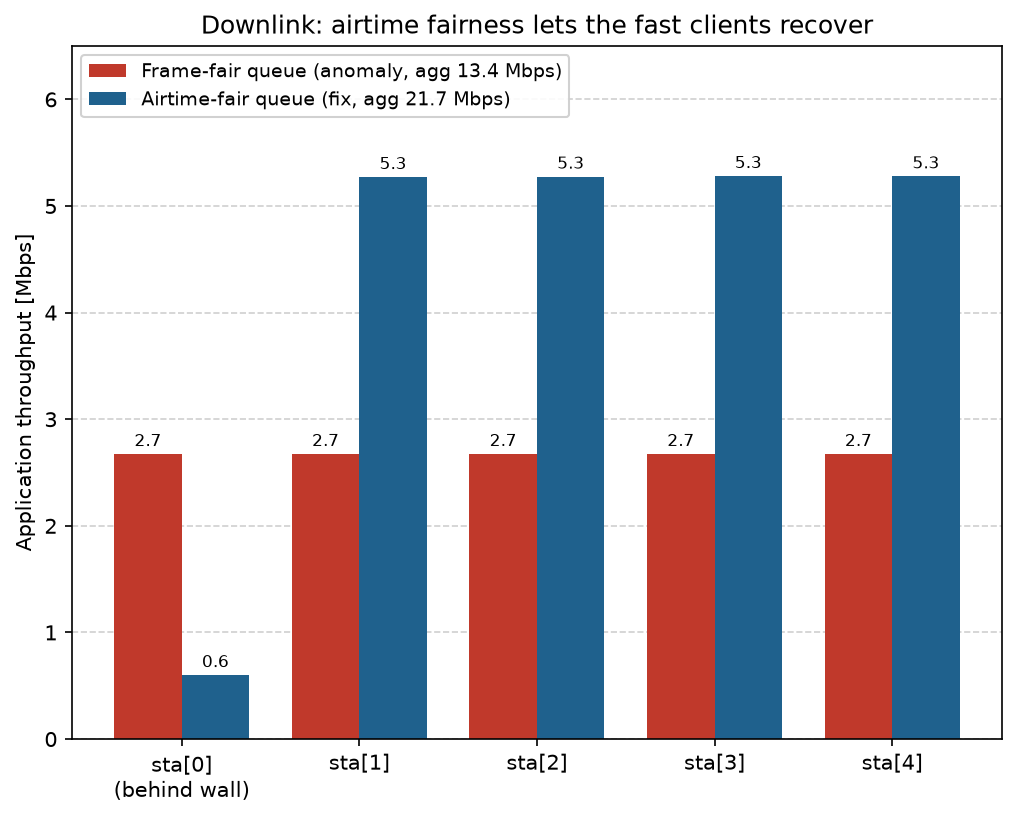
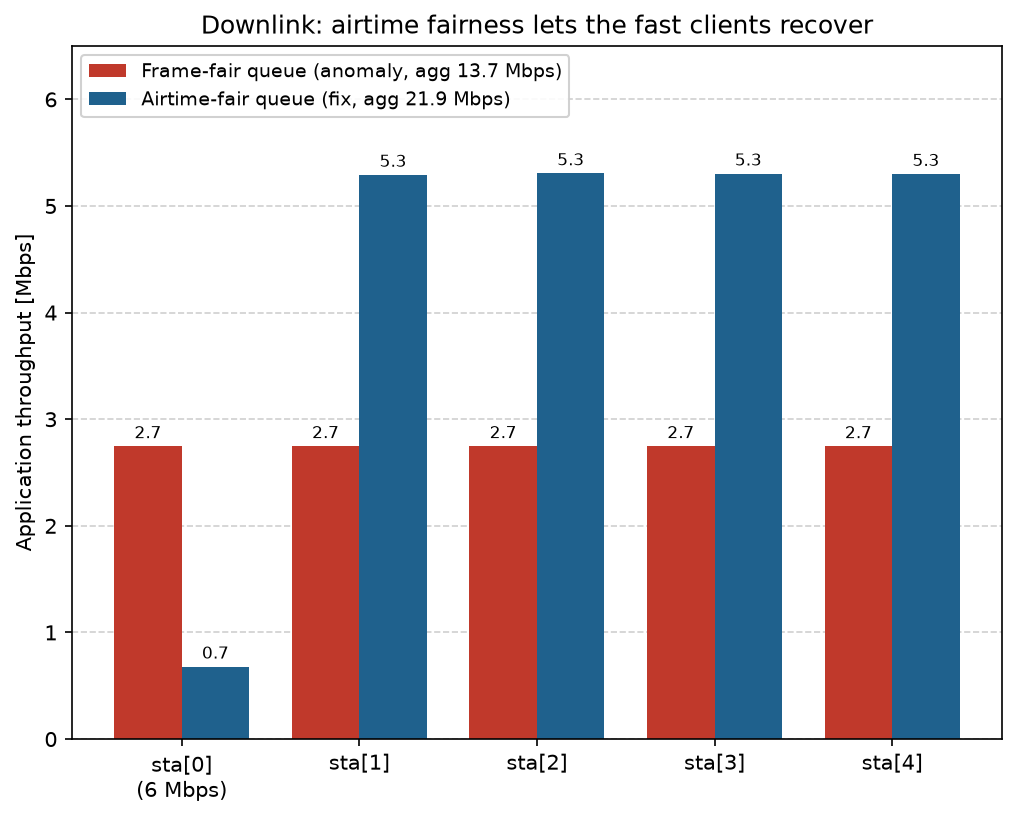
showcases/wireless/rateanomaly: pin the downlink slow rate instead of a wall
The downlink form used a wall in front of sta[0] plus rate control to earn
its 6 Mbps from a weak link. That pulled in a realistic radio, obstacle
loss, simplified management and AARF -- a lot of machinery whose only
purpose is realism, and which drags rate-adaptation transients and a
little packet loss into a demo that is meant to isolate airtime
scheduling. Configure the per-receiver rate directly instead
(dataFrameBitratePerReceiver = {"sta[0].wlan[0]": 6Mbps}), matching the
uplink's "slow by configuration" premise, and drop the physicalEnvironment
and obstacle.xml. The wall + rate-control version now lives in the
ratecontrol showcase (DownlinkRateAnomaly config).

Results are essentially unchanged: anomaly ~2.7 Mbps across all clients,
airtime-fair fix ~0.7 slow / ~5.3 fast, aggregate ~14 -> ~22. Also adds a
per-client rate visualizer and a received-packet info visualizer, and
reworks the doc's downlink section to the configured-rate framing.

diff --git a/showcases/wireless/rateanomaly/dl-chart.py b/showcases/wireless/rateanomaly/dl-chart.py
@@ -35,7 +35,7 @@ b2 = ax.bar(x + w/2, fair,    w, color="#1f618d", label=f"Airtime-fair queue (fi
 ax.bar_label(b1, fmt="%.1f", padding=2, fontsize=8)
 ax.bar_label(b2, fmt="%.1f", padding=2, fontsize=8)
 ax.set_xticks(x)
-ax.set_xticklabels(["sta[0]\n(behind wall)", "sta[1]", "sta[2]", "sta[3]", "sta[4]"])
+ax.set_xticklabels(["sta[0]\n(6 Mbps)", "sta[1]", "sta[2]", "sta[3]", "sta[4]"])
 ax.set_ylabel("Application throughput [Mbps]")
 ax.set_title("Downlink: airtime fairness lets the fast clients recover")
 ax.grid(True, axis="y", linestyle="--", alpha=0.6)

diff --git a/showcases/wireless/rateanomaly/doc/index.rst b/showcases/wireless/rateanomaly/doc/index.rst
@@ -372,41 +372,29 @@ contention rule in the MAC. This is the form production access points face, and 
 Linux ``mac80211`` deficit-airtime scheduler cures; INET models that scheduler as the
 :ned:`AirtimeFairnessQueue`.
 
-A rate-adapted client behind a wall
-~~~~~~~~~~~~~~~~~~~~~~~~~~~~~~~~~~~~~
+A mixed-rate downlink cell
+~~~~~~~~~~~~~~~~~~~~~~~~~~~~
 
 ``[Config DownlinkBase]`` reverses the traffic — the server sources one saturating UDP flow per
-station and the access point relays them over the air — and changes *how* the slow station is
-slow. The uplink configs pin the slow rate by hand. Here ``sta[0]`` stays in the cluster with the
-others, but a thin **wall** stands in front of it — an obstacle in the physical environment,
-between it and the access point, that only its link has to cross. :ned:`DielectricObstacleLoss`
-*attenuates* the signal through the wall rather than blocking it, and rate control does the rest:
+station and the access point relays them over the air — and makes ``sta[0]`` the slow client by
+pinning the rate the access point uses toward it:
 
 .. literalinclude:: ../omnetpp.ini
-   :start-at: # Realistic indoor radio
-   :end-at: initialRate = 54Mbps
+   :start-at: # The AP transmits to sta[0]
+   :end-at: dataFrameBitratePerReceiver
    :language: ini
 
-Weakened by the wall, the ``sta[0]`` link can no longer carry 54 Mbps, so **AARF** (Adaptive
-Auto-Rate Fallback, INET's rate-control algorithm — this is the first config to switch rate
-control on, in place of the pinned rate the uplink used) adapts it down on its own, settling near
-6 Mbps, while the four unobstructed clients stay at 54 Mbps. The slow rate now *emerges* from a
-blocked link, as for a client in the next room, instead of being configured.
+The access point serves ``sta[0]`` at 6 Mbps and every other client at the interface-wide 54 Mbps.
+A real access point *rate-adapts* to each client — a distant or obstructed one settles on a low
+rate on its own — and INET's ``dataFrameBitratePerReceiver`` lets us set that per-client rate
+directly, keyed by the client's interface (resolved to a MAC address at run time). The result is a
+**mixed-rate cell**: one AP radio transmitting at 6 Mbps to ``sta[0]`` and at 54 Mbps to the other
+four — the setup that makes airtime scheduling necessary.
 
-For the wall to *slow* the link rather than simply kill it, the radio needs lower rates worth
-falling back to. With INET's default −85 dBm sensitivity sitting well above the noise floor, a
-link is either strong enough for 54 Mbps or below sensitivity and dead — nothing in between.
-Bringing the sensitivity (−92 dBm) and an explicit noise floor (−95 dBm) close together opens that
-middle band, so an attenuated link can settle on any of the lower 802.11g rates instead of
-dropping out; the steeper indoor path loss (α = 4) means a thin, lossy wall is enough to do it.
-
-A weak-link client can also fail to *associate* in the first place — which would confound a
-scheduling experiment with association failures. To keep the demo about scheduling, the stations
-are pre-associated with :ned:`Ieee80211MgmtStaSimplified`. And crucially the access point
-rate-adapts **per client**: INET's rate control keeps separate state per destination MAC address,
-so one AP radio is, at the same instant, a 6 Mbps transmitter to ``sta[0]`` and a 54 Mbps
-transmitter to the other four — the mixed-rate downlink cell that makes airtime scheduling
-necessary in the first place.
+For the same slow client produced the *realistic* way — a wall in front of ``sta[0]`` plus rate
+control, so its 6 Mbps is earned from a weak link rather than declared — see the ``ratecontrol``
+showcase (its ``DownlinkRateAnomaly`` config). Pinning the rate here keeps the focus on the airtime
+scheduling itself, free of rate-adaptation transients and packet loss.
 
 Frame fairness versus airtime fairness at the AP
 ~~~~~~~~~~~~~~~~~~~~~~~~~~~~~~~~~~~~~~~~~~~~~~~~~~
@@ -435,30 +423,30 @@ acknowledgment and interframe gaps around it.)
    type:     chart (matplotlib)
    shows:    per-station application throughput, frame-fair (anomaly) vs airtime-fair AP queue;
              frame-fair collapses all five clients to ~2.7 Mbps, airtime-fair lifts the four fast
-             clients to ~5.3 while holding the far sta[0] to its ~0.6 Mbps time share
+             clients to ~5.3 while holding sta[0] to its ~0.7 Mbps time share
    inputs:   results/dl/DownlinkAnomaly-*.sca, results/dl/DownlinkAirtimeFair-*.sca, BOTH 3 reps
              (DCF backoff uses the RNG, so both configs are averaged alike)
    record:   inet -u Cmdenv -c DownlinkAnomaly     -r 0..2 --repeat=3 --result-dir=results/dl
              inet -u Cmdenv -c DownlinkAirtimeFair -r 0..2 --repeat=3 --result-dir=results/dl
    metric:   sta[i].app[0] packetReceived:count x 0.002 -> Mbps; per-station mean over 3 reps
-   anchor:   structural -- if the Downlink configs or the obstacle wall change, re-derive
+   anchor:   structural -- if the Downlink configs change, re-derive
    plot:     ../dl-chart.py (matplotlib; anomaly red, fix blue; 8x6 in @ dpi 150)
    stamp:    captured 2026-07, INET 4.6
 
 Frame-fair scheduling reproduces the anomaly. ``sta[0]``'s frames sit on the air several times
 longer, and serving them one-for-one with the fast clients' frames lets them swallow most of the
-airtime — so all five clients collapse to about 2.7 Mbps and the aggregate falls to ~13 Mbps.
+airtime — so all five clients collapse to about 2.7 Mbps and the aggregate falls to ~14 Mbps.
 Airtime fairness reverses it: charged for the time they occupy, the four fast clients climb back
 to about 5.3 Mbps each — almost exactly double — and the aggregate recovers to ~22 Mbps. (They
 stop a little short of the ~5.5 Mbps a fast station reaches under uplink TXOP: here all five flows
 funnel through the one access-point queue rather than five independent radios.)
 
-``sta[0]`` moves the other way, down to ~0.6 Mbps — and that is the fairness *working*, not the
+``sta[0]`` moves the other way, down to ~0.7 Mbps — and that is the fairness *working*, not the
 slow client being punished. Under frame-fair scheduling ``sta[0]`` was the culprit rather than the
-victim: it had been taking far more than its one-fifth share of channel *time*, so its 2.7 Mbps was
-inflated by exactly the airtime it stole from the others. Airtime fairness holds it to an equal
-*time* share, and ~0.6 Mbps is honestly all a 6 Mbps link delivers in one-fifth of the airtime —
-while the aggregate *rises* from ~13 to ~22 Mbps, so nothing is taken from anyone. The fast
+victim: it had been taking far more than its one-fifth share of channel *time*, so its 2.7 Mbps
+was inflated by exactly the airtime it stole from the others. Airtime fairness holds it to an equal
+*time* share, and ~0.7 Mbps is honestly all a 6 Mbps link delivers in one-fifth of the airtime —
+while the aggregate *rises* from ~14 to ~22 Mbps, so nothing is taken from anyone. The fast
 clients' recovery is precisely the airtime ``sta[0]`` was monopolising, handed back.
 
 And unlike the uplink TXOP result, this fix is cleanly *per-station* fair: a single transmitter
